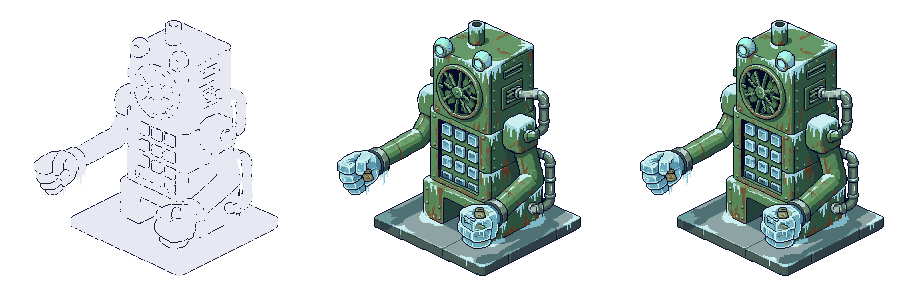
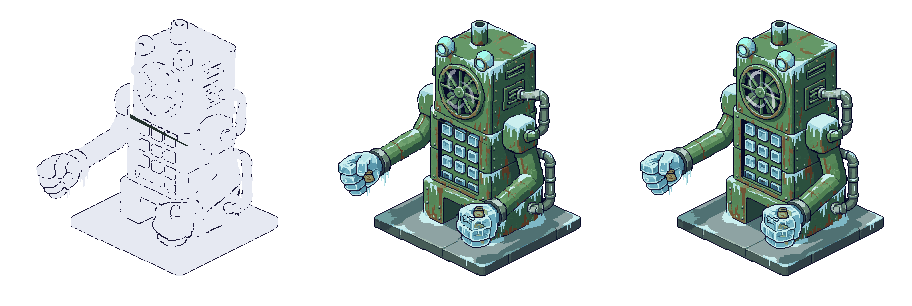
The Ice Machine's moving sheets (the art folder's silong/mobs/makinang-yelo-moving: its arms and head move, a wind whirl over the still fan), its moves timed by the manifest's hitFrames (the art's contact frames; the breath charge played out by the breath), its art box 2 px taller, and its target ri

diff --git a/packages/game/src/world/silong.ts b/packages/game/src/world/silong.ts
@@ -533,11 +533,14 @@ export class SilongView {
     return Phaser.Geom.Rectangle.Overlaps(this.scene.cameras.main.worldView, new Phaser.Geom.Rectangle(f.x - ax * k, f.y - ay * k, w * k, h * k));
   }
 
-  /** The boss's anim so its attack frame (mobs.json) lands `ms` from now. */
+  /** The boss's anim so its contact frame lands `ms` from now: the manifest's `hitFrames` for it (the Ice Machine's
+   *  slam, sweep, floor punch, raised fist), else on a boss that has them its last frame (the breath charge plays out,
+   *  its head right back, as the breath comes), else its attack frame (mobs.json: the mini bosses). */
   private poseFor(m: Mob | null, anim: string, ms: number): void {
     const A = m?.def.animations[anim];
     if (!m || !A) return;
-    const f = m.data?.attackFrame ?? 0;
+    const H = m.def.hitFrames;
+    const f = H?.[anim] ?? (H && !A.loop ? A.frames - 1 : (m.data?.attackFrame ?? 0));
     this.later(m.id, Math.max(0, ms - (f / A.fps) * 1000), () => !m.dead && this.mobs.pose(m, anim));
   }
 

diff --git a/packages/game/src/world/mobs.ts b/packages/game/src/world/mobs.ts
@@ -1497,8 +1497,9 @@ export class Mobs {
     this.ring = null;
     if (m) {
       // A soft gold ring on the ground under it.
-      // (Round the golem's shadow.)
-      const [w, h] = m.radius && m.data ? [m.data.shadow[0] * (m.data.scale ?? 1) + 8, m.data.shadow[1] * (m.data.scale ?? 1) + 6] : [22, 10];
+      // (Round the golem's shadow; round the body of one drawn without one, the Ice Machine: its radius in tiles.)
+      const sh = m.data?.shadow;
+      const [w, h] = m.radius && sh ? [sh[0] * (m.data!.scale ?? 1) + 8, sh[1] * (m.data!.scale ?? 1) + 6] : m.radius ? [m.radius * 44 + 8, m.radius * 22 + 6] : [22, 10];
       this.ring = this.scene.add.graphics();
       this.ring.lineStyle(1, 0xfcda4a, 0.9).strokeEllipse(0, 0, w, h).lineStyle(1, 0x1e1b3a, 0.6).strokeEllipse(0, 1, w + 2, h + 1);
       this.syncRing();

diff --git a/CLAUDE.md b/CLAUDE.md
@@ -191,9 +191,11 @@ where JSON allows. When you add one, add it here (and tell the owner, who copies
   the manifest's `tiles.silong` (rim and cap borrowed from the Slums': no Silong art), `silong-*` props, `fx-silong-*`
   and the four frost mobs, `mobs/mobs.json` their entries, `maps/palengke.json` `arrive.silong`, stats.json
   `mobBehaviour.sameAs`, `classes/palengke-leveling.json` `palengke-15` (Now's the Time), palengke-14's `nextUnlock` 37 and
-  `dailies.unlockedBy`. Ang Makinang Yelo (21 Oct 2026): the manifest's `mobs['makinang-yelo']` (its `hitFrames` guessed
-  from the demo gif) and `mobs/mobs.json` `makinang-yelo` (`noShadow`, `radius`, `top`, `frame`, `attackFrame`); the art
-  is the art folder's mobs/makinang-yelo as it is (its stand sheet left out: nothing uses it).
+  `dailies.unlockedBy`. Ang Makinang Yelo (21 Oct 2026): the manifest's `mobs['makinang-yelo']` (its `hitFrames`: the
+  art's contact frames since its moving sheets, 23 Oct 2026; world/silong.ts `poseFor` times each move's sheet by them, a
+  move without one played out by its hit) and `mobs/mobs.json` `makinang-yelo` (`noShadow`, `radius`, `top` 16, `frame`
+  [21,16,277,277] for the moving art, `attackFrame`); the art is the art folder's silong/mobs/makinang-yelo-moving (23 Oct
+  2026: the arms and head move, a wind whirl over the still fan) as it is (its stand sheet left out: nothing uses it).
 - The Great Scale (20 Oct 2026): `mobs/mobs.json` `great-scale` (its `scale` 1.5 and `radius` 3 since 21 Oct 2026: bigger, Mac); `maps/palengke.json` `boss.active` true and `boss.tile`
   [139, 109] (+ `tileNote`: was [139, 105], inside its empty frame `palengke-scale-stand`, blocked); the manifest's
   `ui.greatScaleHead` (the HUD timer's face; its file the art folder's ui/ui-great-scale-head.png since 21 Oct 2026);
